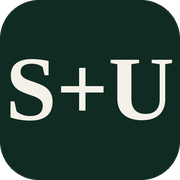
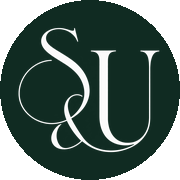
Update wedding site monogram branding

diff --git a/styles.css b/styles.css
@@ -30,8 +30,8 @@ button { color: inherit; }
 .section-cement { background: var(--cement); }
 
 .site-header { position: fixed; inset: 0 0 auto; z-index: 100; display: flex; align-items: center; justify-content: space-between; height: 76px; padding: 0 4vw; color: var(--white); background: var(--green-deep); transition: background .3s; }
-.wordmark { font: 400 1.5rem/1 var(--serif); letter-spacing: .03em; }
-.wordmark span { font-style: italic; }
+.wordmark { display: inline-flex; align-items: center; width: 92px; height: 52px; }
+.wordmark img { display: block; width: 100%; height: 100%; object-fit: contain; }
 .site-nav { display: flex; align-items: center; gap: 1.25rem; font-size: .66rem; font-weight: 500; letter-spacing: .08em; text-transform: uppercase; }
 .site-nav a, .nav-rsvp { position: relative; padding: .4rem 0; }
 .site-nav a.is-current { opacity: .55; }
@@ -292,6 +292,7 @@ footer { display: flex; align-items: center; justify-content: space-between; min
   .section-grid > :not(.section-number) { grid-column: 1; }
   .section-number { opacity: .5; }
   .site-header { height: 64px; padding: 0 1.25rem; }
+  .wordmark { width: 72px; height: 42px; }
   .site-nav { padding-left: 1.5rem; padding-right: 1.5rem; font-size: clamp(1.75rem, 4.2vh, 2.25rem); }
   .hero-art__sun { width: 80vw; right: -30vw; top: 8vh; }
   .hero-art__frame { width: 58vw; height: 40vh; right: -8vw; top: 40vh; transform: rotate(3deg); opacity: .6; }

diff --git a/pages.js b/pages.js
@@ -209,7 +209,7 @@ document.querySelector("[data-site-password]")?.addEventListener("submit", (even
 
 function header() {
   return `<header class="site-header ${pageName === "home" ? "" : "page-header"}" data-header>
-    <a class="wordmark" href="/" aria-label="Sophie and Ubaldo home">S <span>+</span> U</a>
+    <a class="wordmark" href="/" aria-label="Sophie and Ubaldo home"><img src="/images/monogram.png" alt="Sophie and Ubaldo monogram"></a>
     <button class="menu-toggle" data-menu-toggle aria-expanded="false" aria-controls="site-nav"><span>Menu</span><i></i><i></i></button>
     <nav class="site-nav" id="site-nav" data-menu>
       ${navigation.map(([slug, label]) => `<a class="${pageName === slug ? "is-current" : ""}" href="/${slug}/">${label}</a>`).join("")}
